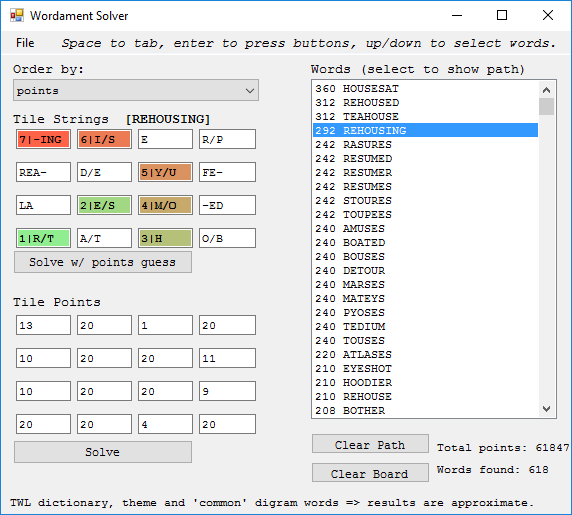
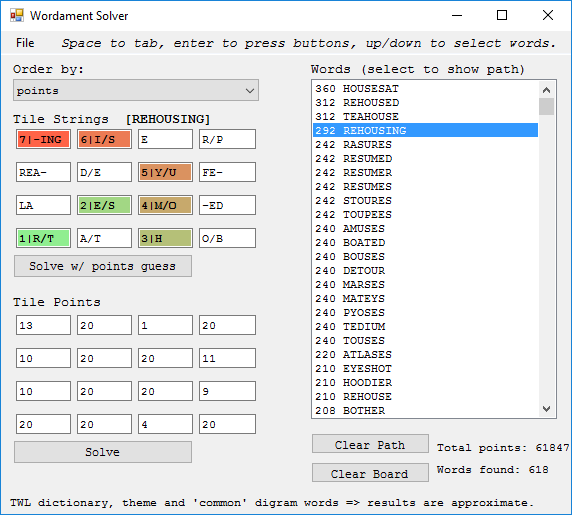
Screenshots

Changed region(s): [[0.0297, 0.466, 0.3269, 0.5592]]

diff --git a/WordamentSolver/Views/SolverForm.Designer.cs b/WordamentSolver/Views/SolverForm.Designer.cs
@@ -529,7 +529,7 @@
             // solveWithTilePointsGuessButton
             // 
             this.solveWithTilePointsGuessButton.Font = new System.Drawing.Font("Courier New", 9F, System.Drawing.FontStyle.Regular, System.Drawing.GraphicsUnit.Point, ((byte)(0)));
-            this.solveWithTilePointsGuessButton.Location = new System.Drawing.Point(12, 219);
+            this.solveWithTilePointsGuessButton.Location = new System.Drawing.Point(12, 223);
             this.solveWithTilePointsGuessButton.Name = "solveWithTilePointsGuessButton";
             this.solveWithTilePointsGuessButton.Size = new System.Drawing.Size(180, 24);
             this.solveWithTilePointsGuessButton.TabIndex = 2;
